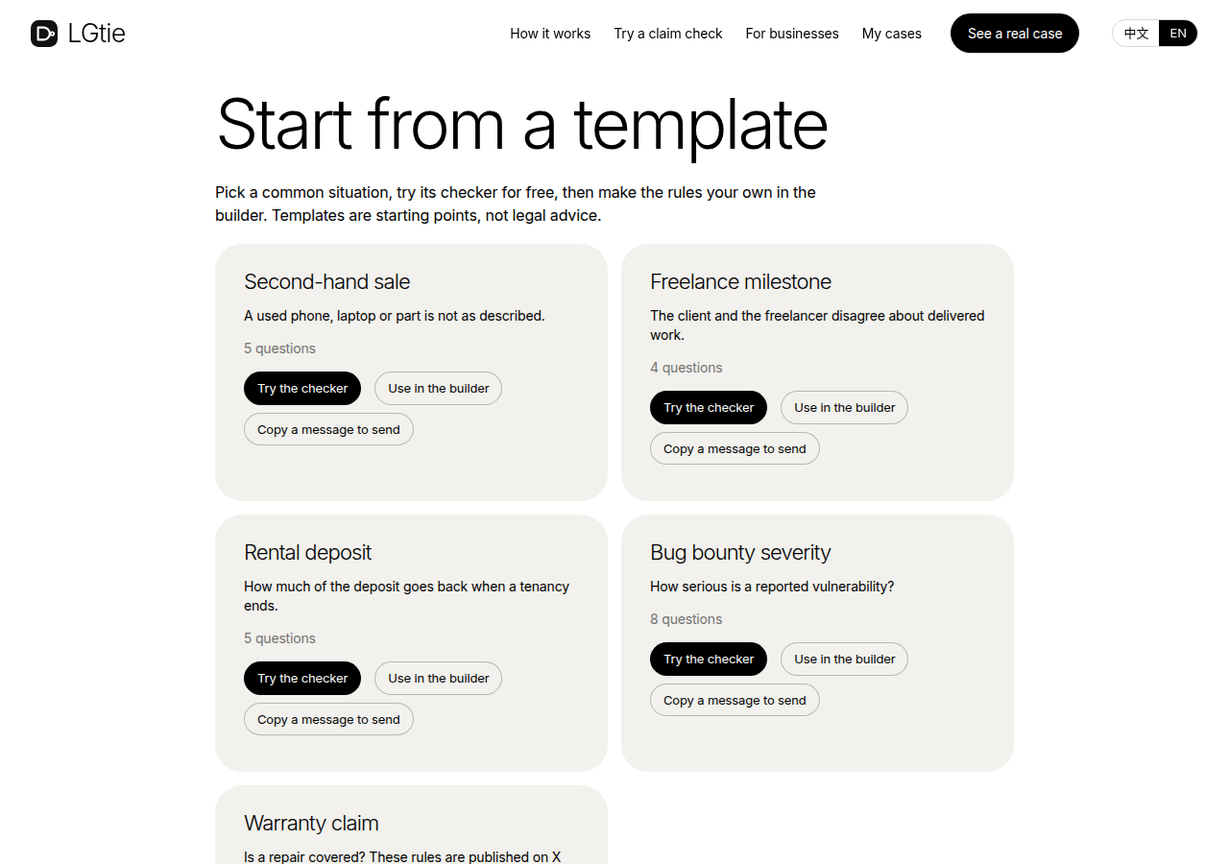
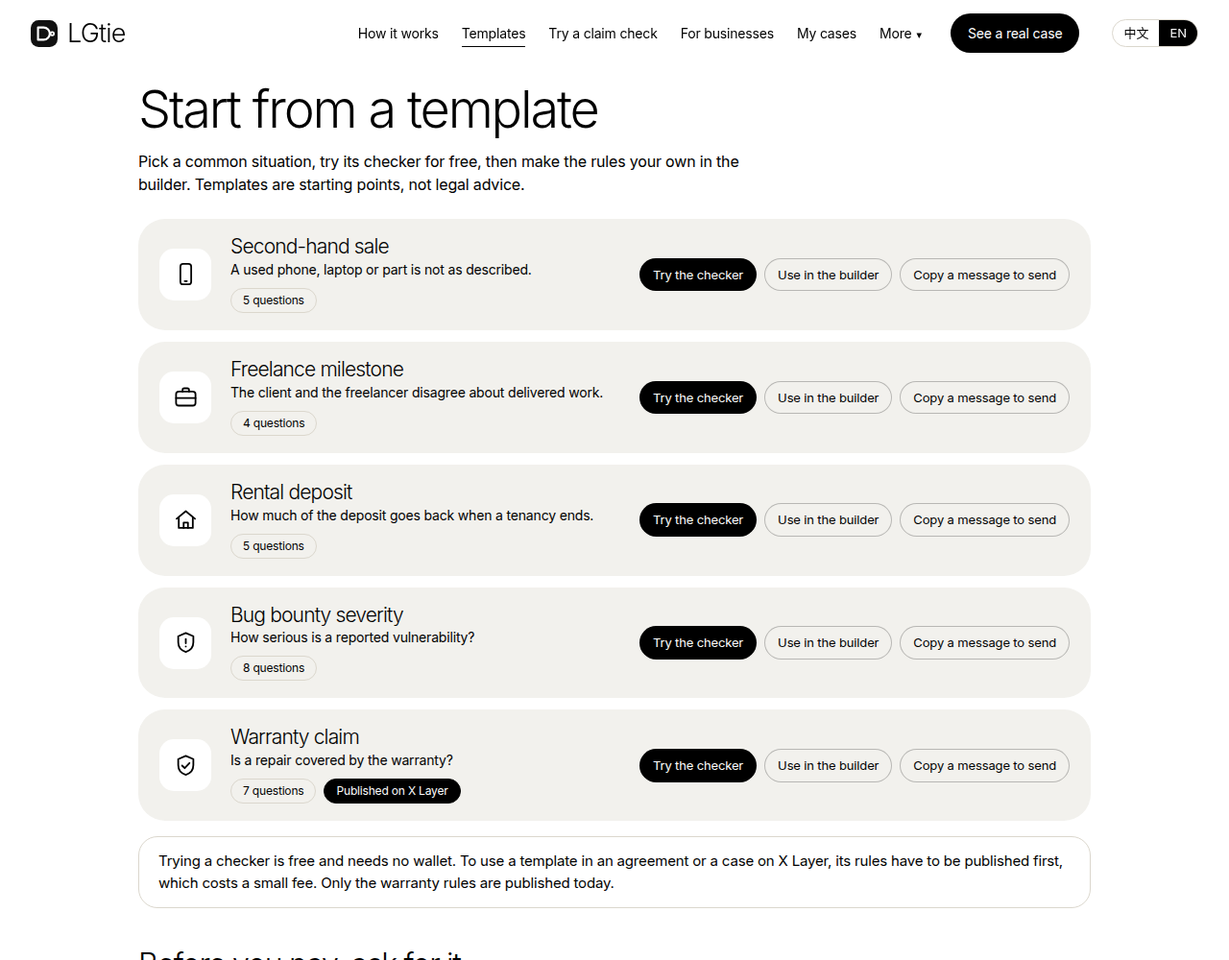
Redesign the templates page
The cards had uneven heights, an orphaned fifth card, three buttons wrapping
onto two rows, a wall of text, and a jumbled clause form.

- Templates are now a clean list of rows: icon, title, one-line description,
  tags (question count, "Published on X Layer") and all three actions on one
  line. The page is wider so they fit.
- "Before you pay, ask for it" is two short panels (buying or hiring, selling
  or providing).
- The contract clause tool has labelled controls on the left (sticky) and a
  paper-style preview on the right that grows to fit its text, with the copy
  button above it and the fine print as three bullets. Shorter dropdown labels
  so nothing is cut off. The same card is used on agreement pages.
- Phone: rows stack with their actions underneath; controls stack above the
  clause; no sideways scroll.
- Chinese strings for the new text; README screenshot retaken.
- Tests: 9 layout checks (aligned rows, one line of actions, no clause
  scrollbar, labels not cut off, phone layout).

diff --git a/dist/index.html b/dist/index.html
@@ -413,6 +413,22 @@ main.hub{max-width:1100px}
 .fcols{display:grid;grid-template-columns:repeat(auto-fit,minmax(170px,1fr));gap:22px 28px;margin:0 0 26px}.fcols h5{margin:0 0 8px;font:500 13px/1.2 var(--sans);color:#000;letter-spacing:0}
 .fcols a{display:block;padding:4px 0;text-decoration:none;color:var(--ink)}.fcols a:hover{text-decoration:underline}
 @media(max-width:700px){.more .menu{left:0;right:auto}}
+
+/* the templates page */
+main.tplpage{max-width:1040px}.tplpage h1{font-size:clamp(34px,5vw,54px);margin:.1em 0 .25em}.tplpage .sech{font-size:clamp(24px,3vw,32px);margin:42px 0 14px}
+.tpllist{display:grid;gap:12px;margin:24px 0 16px}
+.tpl{display:grid;grid-template-columns:54px minmax(0,1fr) auto;gap:20px;align-items:center;padding:18px 22px;margin:0}
+.tpl .ico{width:54px;height:54px;border-radius:15px;background:#fff;display:grid;place-items:center}.tpl .ico svg{width:27px;height:27px;fill:none;stroke:var(--ink);stroke-width:1.6;stroke-linecap:round;stroke-linejoin:round}
+.tpl h3{font-size:21px;margin:0 0 3px}.tpl p{margin:0}.tpl .meta{display:flex;gap:8px;flex-wrap:wrap;margin-top:9px}.tpl .acts{display:flex;gap:8px;flex-wrap:nowrap}.tpl .acts .btn{white-space:nowrap}
+@media(max-width:900px){.tpl{grid-template-columns:48px minmax(0,1fr);gap:14px 16px;align-items:start}.tpl .ico{width:48px;height:48px}.tpl .acts{grid-column:1/-1;flex-wrap:wrap}}
+.duo{display:grid;grid-template-columns:1fr 1fr;gap:14px}.duo>div{background:#fff;border:1px solid var(--warm,#ddd);border-radius:18px;padding:20px 24px}.duo h4{font:500 17px/1.3 var(--sans);letter-spacing:0;margin:0 0 8px}.duo p{margin:0}
+@media(max-width:760px){.duo{grid-template-columns:1fr}}
+.clause{display:grid;gap:22px;margin-top:16px}.clause .ctl{display:grid;gap:14px;align-content:start}.clause label{display:grid;gap:6px;font-size:13px;color:var(--stone)}.clause select,.clause input[type=text]{width:100%;font-size:15px}
+.tplpage .clause.two .ctl{position:sticky;top:84px}
+.clause .two2{display:grid;grid-template-columns:1fr 1fr;gap:10px}.clause .doc{display:grid;gap:12px;min-width:0}.clause .dochead{display:flex;justify-content:space-between;align-items:center;gap:10px}.clause .dochead b{font:500 15px var(--sans);letter-spacing:0}
+.clause textarea.paper{width:100%;background:#fff;border:1px solid var(--warm,#ddd);border-radius:14px;padding:22px 24px;font:400 14.5px/1.7 var(--sans);letter-spacing:0;resize:none;overflow:hidden;min-height:180px;box-sizing:border-box}
+.clause .fine{margin:0;padding-left:18px;color:var(--stone);font-size:13px;line-height:1.6;display:grid;gap:4px}
+.tplpage .clause.two{grid-template-columns:280px minmax(0,1fr);align-items:start}@media(max-width:860px){.tplpage .clause.two{grid-template-columns:1fr}}
 /* language: Chinese needs system CJK fonts (the embedded Inter has Latin only) and looser tracking */
 html[lang^="zh"]{--serif:"InterEmbedded","Inter","PingFang SC","Hiragino Sans GB","Microsoft YaHei","Noto Sans CJK SC","Noto Sans SC","WenQuanYi Micro Hei",ui-sans-serif,system-ui,sans-serif;--sans:var(--serif)}
 html[lang^="zh"] body{letter-spacing:0;line-height:1.65;line-break:strict}
@@ -1360,7 +1376,18 @@ window.TB_ZH = {
  "For the neutral person": "中立人士的裁决期限",
  "For example: Amina Yusuf": "例如：张伟",
  "Copy the clause": "复制条款",
- "This does not limit anyone's right to go to court or to arbitration. The record it produces is evidence of what each side answered and what was decided; it is not a court judgment or an arbitral award. Answers, fingerprints of evidence and the reviewer's written reasons are public on the blockchain, so do not use LGtie for matters that must stay confidential.": "这不限制任何人提起诉讼或仲裁的权利。它产生的记录是各方回答了什么、裁定了什么的证据，不是法院判决，也不是仲裁裁决。答案、证据指纹和审核人的书面理由都公开在区块链上，所以请不要用 LGtie 处理必须保密的事项。"
+ "This does not limit anyone's right to go to court or to arbitration. The record it produces is evidence of what each side answered and what was decided; it is not a court judgment or an arbitral award. Answers, fingerprints of evidence and the reviewer's written reasons are public on the blockchain, so do not use LGtie for matters that must stay confidential.": "这不限制任何人提起诉讼或仲裁的权利。它产生的记录是各方回答了什么、裁定了什么的证据，不是法院判决，也不是仲裁裁决。答案、证据指纹和审核人的书面理由都公开在区块链上，所以请不要用 LGtie 处理必须保密的事项。",
+ "Published on X Layer": "已发布在 X Layer",
+ "Buying or hiring": "购买或雇人",
+ "Selling or providing": "出售或提供服务",
+ "The clause": "条款",
+ "Ask first: \"Will you accept an LGtie agreement?\" If they will not agree the refund rules before you pay, you have learned something. If they will, you both know what happens if it goes wrong.": "先提出：“你愿意接受 LGtie 协议吗？”如果对方不肯在你付款之前就退款规则达成一致，你就已经看出了问题。如果对方愿意，你们双方就都清楚出问题时会怎样处理。",
+ "Show the rules first. The receipt of a decided case shows which rules both sides agreed and who settled each question. It is useful supporting evidence if a payment company or a platform asks, but they decide what they accept.": "先把规则给对方看。已裁决案件的回执会显示双方约定了哪些规则、每个问题由谁裁定。如果支付公司或平台提出要求，它是有用的佐证材料，但是否采信由他们决定。",
+ "This does not limit anyone's right to go to court or to arbitration.": "这不限制任何人提起诉讼或仲裁的权利。",
+ "The record it produces is evidence of what each side answered and what was decided; it is not a court judgment or an arbitral award.": "它产生的记录是各方回答了什么、裁定了什么的证据，不是法院判决，也不是仲裁裁决。",
+ "Answers, fingerprints of evidence and the reviewer's written reasons are public on the blockchain, so do not use LGtie for matters that must stay confidential.": "答案、证据指纹和审核人的书面理由都公开在区块链上，所以请不要用 LGtie 处理必须保密的事项。",
+ "Binding (expert determination)": "有约束力（专家裁定）",
+ "Advisory only": "仅供参考"
 },
   patterns: [
   [/^Evidence: (.+)$/, "证据：{1}"],
@@ -1809,8 +1836,8 @@ rule: Q6=yes -> 中危 : 造成永久性损害，但没有资金损失。
 default: 低危 : 可以复现且在范围内，但没有资金损失，也没有永久性损害。
 `}},
     {key: "warranty",
-      en: {chip: "Warranty example", title: "Warranty claim", blurb: "Is a repair covered? These rules are published on X Layer.", text: null},
-      zh: {chip: "保修示例", title: "保修理赔", blurb: "维修是否在保修范围内？这套规则已发布在 X Layer 上。", text: `name: 保修理赔
+      en: {chip: "Warranty example", title: "Warranty claim", blurb: "Is a repair covered by the warranty?", text: null},
+      zh: {chip: "保修示例", title: "保修理赔", blurb: "维修是否在保修范围内？", text: `name: 保修理赔
 about: 在提交理赔之前，先查明维修是否在保修范围内。
 question: 产品是否已登记，或者你能否出示购买凭证？ | 登记号或收据
 question: 是否仍在保修期内？ | 购买日期
@@ -1889,43 +1916,65 @@ default: 予以保修 : 保修的所有条件均已满足。
     ? `在开始之前，我们能不能先约定好万一出问题怎么处理？这是我们双方都会回答的问题，以及决定结果的规则：${base()}#check/${key}\n如果将来有分歧，只有我们答案不一致的问题才会交给中立的第三方。你接受 LGtie 协议吗？`
     : `Before we go ahead, can we agree in advance what happens if something goes wrong? Here are the questions we would both answer, and the rules that decide the result: ${base()}#check/${key}\nIf we ever disagree, only the questions we answer differently go to a neutral person. Do you accept an LGtie agreement?`;
 
-  // The clause card, used on the templates page (everything editable) and on an agreement page (the agreement's own reviewer and time limits).
-  // o: {key, fixed (true on an agreement page), reviewer, answerDays, reviewDays, link}
+  // The clause card, used on the templates page (controls on the left, the clause on the right) and on an agreement page (the agreement's own
+  // reviewer and time limits, so only the effect can be chosen). o: {key, fixed, reviewer, answerDays, reviewDays, link}
   const sha = async t => "0x" + [...new Uint8Array(await crypto.subtle.digest("SHA-256", new TextEncoder().encode(t)))].map(x => x.toString(16).padStart(2, "0")).join("");
   const dayOpts = (n, list) => list.map(d => `<option value="${d}"${d === n ? " selected" : ""}>${d} days</option>`).join("");
   function clauseCard(el, o) {
     const fixed = !!o.fixed, uid = "cl" + Math.random().toString(36).slice(2, 7);
     el.innerHTML = `<h3>Put it in your contract</h3>
       <p class="small">The legal effect comes from your own written contract, not from LGtie. Paste a clause like this into it, so the contract itself says how a disagreement about the facts is settled. Have a lawyer in your jurisdiction review it: this is a template, not legal advice.</p>
-      <div class="row">${fixed ? "" : `<label>Rules <select id="${uid}k">${LIBRARY.map(t => `<option value="${t.key}"${t.key === o.key ? " selected" : ""}>${esc(info(t.key).title)}</option>`).join("")}</select></label>`}
-        <label>The outcome is <select id="${uid}e"><option value="binding">Binding on the parties (expert determination of facts)</option><option value="advisory">Advisory only (considered before going to court)</option></select></label></div>
-      ${fixed ? "" : `<div class="row"><label>Neutral person (name, optional) <input id="${uid}r" type="text" placeholder="For example: Amina Yusuf" autocomplete="off" style="width:min(320px,100%)"></label><label>To answer <select id="${uid}a">${dayOpts(o.answerDays || 7, [3, 7, 14, 30])}</select></label><label>For the neutral person <select id="${uid}d">${dayOpts(o.reviewDays || 7, [3, 7, 14, 30])}</select></label></div>`}
-      <textarea id="${uid}t" rows="14" readonly style="width:100%"></textarea>
-      <div class="row"><button class="btn small" id="${uid}c" type="button">Copy the clause</button></div>
-      <p class="small mute">This does not limit anyone's right to go to court or to arbitration. The record it produces is evidence of what each side answered and what was decided; it is not a court judgment or an arbitral award. Answers, fingerprints of evidence and the reviewer's written reasons are public on the blockchain, so do not use LGtie for matters that must stay confidential.</p>`;
+      <div class="clause${fixed ? "" : " two"}">
+        <div class="ctl">
+          ${fixed ? "" : `<label>Rules<select id="${uid}k">${LIBRARY.map(t => `<option value="${t.key}"${t.key === o.key ? " selected" : ""}>${esc(info(t.key).title)}</option>`).join("")}</select></label>`}
+          <label>The outcome is<select id="${uid}e"><option value="binding">Binding (expert determination)</option><option value="advisory">Advisory only</option></select></label>
+          ${fixed ? "" : `<label>Neutral person (name, optional)<input id="${uid}r" type="text" placeholder="For example: Amina Yusuf" autocomplete="off"></label>
+          <div class="two2"><label>To answer<select id="${uid}a">${dayOpts(o.answerDays || 7, [3, 7, 14, 30])}</select></label><label>For the neutral person<select id="${uid}d">${dayOpts(o.reviewDays || 7, [3, 7, 14, 30])}</select></label></div>`}
+        </div>
+        <div class="doc">
+          <div class="dochead"><b>The clause</b><button class="btn small" id="${uid}c" type="button">Copy the clause</button></div>
+          <textarea class="paper" id="${uid}t" rows="10" readonly aria-label="The clause"></textarea>
+          <ul class="fine"><li>This does not limit anyone's right to go to court or to arbitration.</li><li>The record it produces is evidence of what each side answered and what was decided; it is not a court judgment or an arbitral award.</li><li>Answers, fingerprints of evidence and the reviewer's written reasons are public on the blockchain, so do not use LGtie for matters that must stay confidential.</li></ul>
+        </div>
+      </div>`;
     const $ = s => el.querySelector("#" + uid + s);
+    const fit = () => { const t = $("t"); t.style.height = "auto"; t.style.height = (t.scrollHeight + 4) + "px"; };
     async function draw() {
       const key = fixed ? o.key : $("k").value, text = templateText(key, true), P = TB.parse(text).policy, pubd = published(key) ? root.TB_CONFIG.published[key] : null;
       const rvText = fixed ? o.reviewer : $("r").value;
       $("t").value = clause({key, effect: $("e").value, reviewer: rvText, answerDays: fixed ? o.answerDays : Number($("a").value), reviewDays: fixed ? o.reviewDays : Number($("d").value), link: o.link || (base() + "#check/" + key), hash: await sha(TB.canonical(P)), published: pubd});
+      fit();
     }
     el.querySelectorAll("select,input").forEach(x => { x.oninput = draw; x.onchange = draw; });
     $("c").onclick = async () => { try { await navigator.clipboard.writeText($("t").value); const b = $("c"), t = b.textContent; b.textContent = "Copied"; setTimeout(() => b.textContent = t, 1400); } catch { $("t").select(); } };
+    window.addEventListener("resize", () => { if (el.isConnected) fit(); });
     draw(); return {draw};
   }
 
+  // small line icons, one per template
+  const SHIELD = '<path d="M12 3l7 3v5.5c0 4.3-3 7.7-7 9-4-1.3-7-4.7-7-9V6l7-3z"/>';
+  const ICON = {
+    secondhand: '<rect x="7" y="2.5" width="10" height="19" rx="2.5"/><path d="M11 18.5h2"/>',
+    freelance: '<rect x="3" y="7" width="18" height="13" rx="2.5"/><path d="M9 7V5.5A1.5 1.5 0 0 1 10.5 4h3A1.5 1.5 0 0 1 15 5.5V7M3 13h18"/>',
+    rental: '<path d="M3.5 11 12 4l8.5 7"/><path d="M5.5 10v9.5h13V10"/><path d="M10 19.5v-5h4v5"/>',
+    bounty: SHIELD + '<path d="M12 8.5v4M12 15.4v.1"/>',
+    warranty: SHIELD + '<path d="M8.6 12l2.4 2.4 4.4-4.8"/>'
+  };
   function page() {
-    const cards = LIBRARY.map(t => {
-      const i = info(t.key), n = TB.parse(templateText(t.key, true)).policy.questions.length;
-      return `<div class="card"><h3>${esc(i.title)}</h3><p class="small">${esc(i.blurb)}</p><p class="small mute">${n} questions${published(t.key) ? " · published on X Layer" : ""}</p>
-        <div class="row"><a class="btn small" href="#check/${t.key}">Try the checker</a><a class="btn small ghost" href="#build/${t.key}">Use in the builder</a><button class="btn small ghost" data-msg="${t.key}" type="button">Copy a message to send</button></div></div>`;
+    main.classList.add("tplpage");
+    const rows = LIBRARY.map(t => {
+      const i = info(t.key), n = TB.parse(templateText(t.key, true)).policy.questions.length, pub = published(t.key);
+      return `<div class="card tpl"><div class="ico"><svg viewBox="0 0 24 24" aria-hidden="true">${ICON[t.key] || SHIELD}</svg></div>
+        <div class="txt"><h3>${esc(i.title)}</h3><p class="small">${esc(i.blurb)}</p><div class="meta"><span class="badge">${n} questions</span>${pub ? `<span class="badge ok">Published on X Layer</span>` : ""}</div></div>
+        <div class="acts"><a class="btn small" href="#check/${t.key}">Try the checker</a><a class="btn small ghost" href="#build/${t.key}">Use in the builder</a><button class="btn small ghost" data-msg="${t.key}" type="button">Copy a message to send</button></div></div>`;
     }).join("");
     main.innerHTML = `<h1>Start from a template</h1><p class="lede">Pick a common situation, try its checker for free, then make the rules your own in the builder. Templates are starting points, not legal advice.</p>
-      <div class="grid2">${cards}</div>
-      <div class="card"><h3>Before you pay, ask for it</h3><p class="small">Ask the other side: "Will you accept an LGtie agreement?" If they will not agree the refund rules before you pay, you have learned something. If they will, you both know what happens if it goes wrong.</p>
-        <p class="small">Selling? Show buyers the rules first. The receipt of a decided case shows which rules both sides agreed and who settled each question. It is useful supporting evidence if a payment company or a platform asks, but they decide what they accept.</p></div>
-      <div class="card" id="clausecard"></div>
-      <div class="note">Trying a checker is free and needs no wallet. To use a template in an agreement or a case on X Layer, its rules have to be published first, which costs a small fee. Only the warranty rules are published today.</div>`;
+      <div class="tpllist">${rows}</div>
+      <div class="note">Trying a checker is free and needs no wallet. To use a template in an agreement or a case on X Layer, its rules have to be published first, which costs a small fee. Only the warranty rules are published today.</div>
+      <h2 class="sech">Before you pay, ask for it</h2>
+      <div class="duo"><div><h4>Buying or hiring</h4><p class="small">Ask first: "Will you accept an LGtie agreement?" If they will not agree the refund rules before you pay, you have learned something. If they will, you both know what happens if it goes wrong.</p></div>
+        <div><h4>Selling or providing</h4><p class="small">Show the rules first. The receipt of a decided case shows which rules both sides agreed and who settled each question. It is useful supporting evidence if a payment company or a platform asks, but they decide what they accept.</p></div></div>
+      <div class="card" id="clausecard"></div>`;
     clauseCard(main.querySelector("#clausecard"), {key: "freelance"});
     main.querySelectorAll("[data-msg]").forEach(b => b.onclick = async () => { const t = message(b.dataset.msg); try { await navigator.clipboard.writeText(t); const o = b.textContent; b.textContent = "Copied"; setTimeout(() => b.textContent = o, 1400); } catch { prompt("Copy:", t); } });
   }
@@ -4042,7 +4091,7 @@ MY POLICY:
     window.TB_HERO.stop();
     const h = location.hash.replace(/^#/, ""), [view, key, ...rest] = h.split("/");
     document.body.classList.toggle("embed", view === "embed");
-    main.classList.toggle("home", !view); main.classList.toggle("builder", view === "build"); main.classList.toggle("about", view === "about"); main.classList.toggle("hub", view === "for-business"); if (view !== "build") main.removeAttribute("data-step"); main.classList.remove("enter");
+    main.classList.toggle("home", !view); main.classList.toggle("builder", view === "build"); main.classList.toggle("about", view === "about"); main.classList.toggle("hub", view === "for-business"); main.classList.toggle("tplpage", view === "templates"); if (view !== "build") main.removeAttribute("data-step"); main.classList.remove("enter");
     if (view !== "embed" && view && !reduce) { void main.offsetWidth; main.classList.add("enter"); setTimeout(() => main.classList.remove("enter"), 700); }
     armReveal(view === "embed");
     document.querySelectorAll("#nav a").forEach(a => a.classList.toggle("on", a.dataset.k === view)); closeMore(); const mo = document.querySelector(".more summary"); if (mo) mo.classList.toggle("on", !!document.querySelector(".more .menu a.on"));

diff --git a/site/templates.js b/site/templates.js
@@ -137,8 +137,8 @@ rule: Q6=yes -> 中危 : 造成永久性损害，但没有资金损失。
 default: 低危 : 可以复现且在范围内，但没有资金损失，也没有永久性损害。
 `}},
     {key: "warranty",
-      en: {chip: "Warranty example", title: "Warranty claim", blurb: "Is a repair covered? These rules are published on X Layer.", text: null},
-      zh: {chip: "保修示例", title: "保修理赔", blurb: "维修是否在保修范围内？这套规则已发布在 X Layer 上。", text: `name: 保修理赔
+      en: {chip: "Warranty example", title: "Warranty claim", blurb: "Is a repair covered by the warranty?", text: null},
+      zh: {chip: "保修示例", title: "保修理赔", blurb: "维修是否在保修范围内？", text: `name: 保修理赔
 about: 在提交理赔之前，先查明维修是否在保修范围内。
 question: 产品是否已登记，或者你能否出示购买凭证？ | 登记号或收据
 question: 是否仍在保修期内？ | 购买日期
@@ -217,43 +217,65 @@ default: 予以保修 : 保修的所有条件均已满足。
     ? `在开始之前，我们能不能先约定好万一出问题怎么处理？这是我们双方都会回答的问题，以及决定结果的规则：${base()}#check/${key}\n如果将来有分歧，只有我们答案不一致的问题才会交给中立的第三方。你接受 LGtie 协议吗？`
     : `Before we go ahead, can we agree in advance what happens if something goes wrong? Here are the questions we would both answer, and the rules that decide the result: ${base()}#check/${key}\nIf we ever disagree, only the questions we answer differently go to a neutral person. Do you accept an LGtie agreement?`;
 
-  // The clause card, used on the templates page (everything editable) and on an agreement page (the agreement's own reviewer and time limits).
-  // o: {key, fixed (true on an agreement page), reviewer, answerDays, reviewDays, link}
+  // The clause card, used on the templates page (controls on the left, the clause on the right) and on an agreement page (the agreement's own
+  // reviewer and time limits, so only the effect can be chosen). o: {key, fixed, reviewer, answerDays, reviewDays, link}
   const sha = async t => "0x" + [...new Uint8Array(await crypto.subtle.digest("SHA-256", new TextEncoder().encode(t)))].map(x => x.toString(16).padStart(2, "0")).join("");
   const dayOpts = (n, list) => list.map(d => `<option value="${d}"${d === n ? " selected" : ""}>${d} days</option>`).join("");
   function clauseCard(el, o) {
     const fixed = !!o.fixed, uid = "cl" + Math.random().toString(36).slice(2, 7);
     el.innerHTML = `<h3>Put it in your contract</h3>
       <p class="small">The legal effect comes from your own written contract, not from LGtie. Paste a clause like this into it, so the contract itself says how a disagreement about the facts is settled. Have a lawyer in your jurisdiction review it: this is a template, not legal advice.</p>
-      <div class="row">${fixed ? "" : `<label>Rules <select id="${uid}k">${LIBRARY.map(t => `<option value="${t.key}"${t.key === o.key ? " selected" : ""}>${esc(info(t.key).title)}</option>`).join("")}</select></label>`}
-        <label>The outcome is <select id="${uid}e"><option value="binding">Binding on the parties (expert determination of facts)</option><option value="advisory">Advisory only (considered before going to court)</option></select></label></div>
-      ${fixed ? "" : `<div class="row"><label>Neutral person (name, optional) <input id="${uid}r" type="text" placeholder="For example: Amina Yusuf" autocomplete="off" style="width:min(320px,100%)"></label><label>To answer <select id="${uid}a">${dayOpts(o.answerDays || 7, [3, 7, 14, 30])}</select></label><label>For the neutral person <select id="${uid}d">${dayOpts(o.reviewDays || 7, [3, 7, 14, 30])}</select></label></div>`}
-      <textarea id="${uid}t" rows="14" readonly style="width:100%"></textarea>
-      <div class="row"><button class="btn small" id="${uid}c" type="button">Copy the clause</button></div>
-      <p class="small mute">This does not limit anyone's right to go to court or to arbitration. The record it produces is evidence of what each side answered and what was decided; it is not a court judgment or an arbitral award. Answers, fingerprints of evidence and the reviewer's written reasons are public on the blockchain, so do not use LGtie for matters that must stay confidential.</p>`;
+      <div class="clause${fixed ? "" : " two"}">
+        <div class="ctl">
+          ${fixed ? "" : `<label>Rules<select id="${uid}k">${LIBRARY.map(t => `<option value="${t.key}"${t.key === o.key ? " selected" : ""}>${esc(info(t.key).title)}</option>`).join("")}</select></label>`}
+          <label>The outcome is<select id="${uid}e"><option value="binding">Binding (expert determination)</option><option value="advisory">Advisory only</option></select></label>
+          ${fixed ? "" : `<label>Neutral person (name, optional)<input id="${uid}r" type="text" placeholder="For example: Amina Yusuf" autocomplete="off"></label>
+          <div class="two2"><label>To answer<select id="${uid}a">${dayOpts(o.answerDays || 7, [3, 7, 14, 30])}</select></label><label>For the neutral person<select id="${uid}d">${dayOpts(o.reviewDays || 7, [3, 7, 14, 30])}</select></label></div>`}
+        </div>
+        <div class="doc">
+          <div class="dochead"><b>The clause</b><button class="btn small" id="${uid}c" type="button">Copy the clause</button></div>
+          <textarea class="paper" id="${uid}t" rows="10" readonly aria-label="The clause"></textarea>
+          <ul class="fine"><li>This does not limit anyone's right to go to court or to arbitration.</li><li>The record it produces is evidence of what each side answered and what was decided; it is not a court judgment or an arbitral award.</li><li>Answers, fingerprints of evidence and the reviewer's written reasons are public on the blockchain, so do not use LGtie for matters that must stay confidential.</li></ul>
+        </div>
+      </div>`;
     const $ = s => el.querySelector("#" + uid + s);
+    const fit = () => { const t = $("t"); t.style.height = "auto"; t.style.height = (t.scrollHeight + 4) + "px"; };
     async function draw() {
       const key = fixed ? o.key : $("k").value, text = templateText(key, true), P = TB.parse(text).policy, pubd = published(key) ? root.TB_CONFIG.published[key] : null;
       const rvText = fixed ? o.reviewer : $("r").value;
       $("t").value = clause({key, effect: $("e").value, reviewer: rvText, answerDays: fixed ? o.answerDays : Number($("a").value), reviewDays: fixed ? o.reviewDays : Number($("d").value), link: o.link || (base() + "#check/" + key), hash: await sha(TB.canonical(P)), published: pubd});
+      fit();
     }
     el.querySelectorAll("select,input").forEach(x => { x.oninput = draw; x.onchange = draw; });
     $("c").onclick = async () => { try { await navigator.clipboard.writeText($("t").value); const b = $("c"), t = b.textContent; b.textContent = "Copied"; setTimeout(() => b.textContent = t, 1400); } catch { $("t").select(); } };
+    window.addEventListener("resize", () => { if (el.isConnected) fit(); });
     draw(); return {draw};
   }
 
+  // small line icons, one per template
+  const SHIELD = '<path d="M12 3l7 3v5.5c0 4.3-3 7.7-7 9-4-1.3-7-4.7-7-9V6l7-3z"/>';
+  const ICON = {
+    secondhand: '<rect x="7" y="2.5" width="10" height="19" rx="2.5"/><path d="M11 18.5h2"/>',
+    freelance: '<rect x="3" y="7" width="18" height="13" rx="2.5"/><path d="M9 7V5.5A1.5 1.5 0 0 1 10.5 4h3A1.5 1.5 0 0 1 15 5.5V7M3 13h18"/>',
+    rental: '<path d="M3.5 11 12 4l8.5 7"/><path d="M5.5 10v9.5h13V10"/><path d="M10 19.5v-5h4v5"/>',
+    bounty: SHIELD + '<path d="M12 8.5v4M12 15.4v.1"/>',
+    warranty: SHIELD + '<path d="M8.6 12l2.4 2.4 4.4-4.8"/>'
+  };
   function page() {
-    const cards = LIBRARY.map(t => {
-      const i = info(t.key), n = TB.parse(templateText(t.key, true)).policy.questions.length;
-      return `<div class="card"><h3>${esc(i.title)}</h3><p class="small">${esc(i.blurb)}</p><p class="small mute">${n} questions${published(t.key) ? " · published on X Layer" : ""}</p>
-        <div class="row"><a class="btn small" href="#check/${t.key}">Try the checker</a><a class="btn small ghost" href="#build/${t.key}">Use in the builder</a><button class="btn small ghost" data-msg="${t.key}" type="button">Copy a message to send</button></div></div>`;
+    main.classList.add("tplpage");
+    const rows = LIBRARY.map(t => {
+      const i = info(t.key), n = TB.parse(templateText(t.key, true)).policy.questions.length, pub = published(t.key);
+      return `<div class="card tpl"><div class="ico"><svg viewBox="0 0 24 24" aria-hidden="true">${ICON[t.key] || SHIELD}</svg></div>
+        <div class="txt"><h3>${esc(i.title)}</h3><p class="small">${esc(i.blurb)}</p><div class="meta"><span class="badge">${n} questions</span>${pub ? `<span class="badge ok">Published on X Layer</span>` : ""}</div></div>
+        <div class="acts"><a class="btn small" href="#check/${t.key}">Try the checker</a><a class="btn small ghost" href="#build/${t.key}">Use in the builder</a><button class="btn small ghost" data-msg="${t.key}" type="button">Copy a message to send</button></div></div>`;
     }).join("");
     main.innerHTML = `<h1>Start from a template</h1><p class="lede">Pick a common situation, try its checker for free, then make the rules your own in the builder. Templates are starting points, not legal advice.</p>
-      <div class="grid2">${cards}</div>
-      <div class="card"><h3>Before you pay, ask for it</h3><p class="small">Ask the other side: "Will you accept an LGtie agreement?" If they will not agree the refund rules before you pay, you have learned something. If they will, you both know what happens if it goes wrong.</p>
-        <p class="small">Selling? Show buyers the rules first. The receipt of a decided case shows which rules both sides agreed and who settled each question. It is useful supporting evidence if a payment company or a platform asks, but they decide what they accept.</p></div>
-      <div class="card" id="clausecard"></div>
-      <div class="note">Trying a checker is free and needs no wallet. To use a template in an agreement or a case on X Layer, its rules have to be published first, which costs a small fee. Only the warranty rules are published today.</div>`;
+      <div class="tpllist">${rows}</div>
+      <div class="note">Trying a checker is free and needs no wallet. To use a template in an agreement or a case on X Layer, its rules have to be published first, which costs a small fee. Only the warranty rules are published today.</div>
+      <h2 class="sech">Before you pay, ask for it</h2>
+      <div class="duo"><div><h4>Buying or hiring</h4><p class="small">Ask first: "Will you accept an LGtie agreement?" If they will not agree the refund rules before you pay, you have learned something. If they will, you both know what happens if it goes wrong.</p></div>
+        <div><h4>Selling or providing</h4><p class="small">Show the rules first. The receipt of a decided case shows which rules both sides agreed and who settled each question. It is useful supporting evidence if a payment company or a platform asks, but they decide what they accept.</p></div></div>
+      <div class="card" id="clausecard"></div>`;
     clauseCard(main.querySelector("#clausecard"), {key: "freelance"});
     main.querySelectorAll("[data-msg]").forEach(b => b.onclick = async () => { const t = message(b.dataset.msg); try { await navigator.clipboard.writeText(t); const o = b.textContent; b.textContent = "Copied"; setTimeout(() => b.textContent = o, 1400); } catch { prompt("Copy:", t); } });
   }

diff --git a/site/zh.js b/site/zh.js
@@ -926,7 +926,18 @@ window.TB_ZH = {
  "For the neutral person": "中立人士的裁决期限",
  "For example: Amina Yusuf": "例如：张伟",
  "Copy the clause": "复制条款",
- "This does not limit anyone's right to go to court or to arbitration. The record it produces is evidence of what each side answered and what was decided; it is not a court judgment or an arbitral award. Answers, fingerprints of evidence and the reviewer's written reasons are public on the blockchain, so do not use LGtie for matters that must stay confidential.": "这不限制任何人提起诉讼或仲裁的权利。它产生的记录是各方回答了什么、裁定了什么的证据，不是法院判决，也不是仲裁裁决。答案、证据指纹和审核人的书面理由都公开在区块链上，所以请不要用 LGtie 处理必须保密的事项。"
+ "This does not limit anyone's right to go to court or to arbitration. The record it produces is evidence of what each side answered and what was decided; it is not a court judgment or an arbitral award. Answers, fingerprints of evidence and the reviewer's written reasons are public on the blockchain, so do not use LGtie for matters that must stay confidential.": "这不限制任何人提起诉讼或仲裁的权利。它产生的记录是各方回答了什么、裁定了什么的证据，不是法院判决，也不是仲裁裁决。答案、证据指纹和审核人的书面理由都公开在区块链上，所以请不要用 LGtie 处理必须保密的事项。",
+ "Published on X Layer": "已发布在 X Layer",
+ "Buying or hiring": "购买或雇人",
+ "Selling or providing": "出售或提供服务",
+ "The clause": "条款",
+ "Ask first: \"Will you accept an LGtie agreement?\" If they will not agree the refund rules before you pay, you have learned something. If they will, you both know what happens if it goes wrong.": "先提出：“你愿意接受 LGtie 协议吗？”如果对方不肯在你付款之前就退款规则达成一致，你就已经看出了问题。如果对方愿意，你们双方就都清楚出问题时会怎样处理。",
+ "Show the rules first. The receipt of a decided case shows which rules both sides agreed and who settled each question. It is useful supporting evidence if a payment company or a platform asks, but they decide what they accept.": "先把规则给对方看。已裁决案件的回执会显示双方约定了哪些规则、每个问题由谁裁定。如果支付公司或平台提出要求，它是有用的佐证材料，但是否采信由他们决定。",
+ "This does not limit anyone's right to go to court or to arbitration.": "这不限制任何人提起诉讼或仲裁的权利。",
+ "The record it produces is evidence of what each side answered and what was decided; it is not a court judgment or an arbitral award.": "它产生的记录是各方回答了什么、裁定了什么的证据，不是法院判决，也不是仲裁裁决。",
+ "Answers, fingerprints of evidence and the reviewer's written reasons are public on the blockchain, so do not use LGtie for matters that must stay confidential.": "答案、证据指纹和审核人的书面理由都公开在区块链上，所以请不要用 LGtie 处理必须保密的事项。",
+ "Binding (expert determination)": "有约束力（专家裁定）",
+ "Advisory only": "仅供参考"
 },
   patterns: [
   [/^Evidence: (.+)$/, "证据：{1}"],

diff --git a/site/index.html b/site/index.html
@@ -413,6 +413,22 @@ main.hub{max-width:1100px}
 .fcols{display:grid;grid-template-columns:repeat(auto-fit,minmax(170px,1fr));gap:22px 28px;margin:0 0 26px}.fcols h5{margin:0 0 8px;font:500 13px/1.2 var(--sans);color:#000;letter-spacing:0}
 .fcols a{display:block;padding:4px 0;text-decoration:none;color:var(--ink)}.fcols a:hover{text-decoration:underline}
 @media(max-width:700px){.more .menu{left:0;right:auto}}
+
+/* the templates page */
+main.tplpage{max-width:1040px}.tplpage h1{font-size:clamp(34px,5vw,54px);margin:.1em 0 .25em}.tplpage .sech{font-size:clamp(24px,3vw,32px);margin:42px 0 14px}
+.tpllist{display:grid;gap:12px;margin:24px 0 16px}
+.tpl{display:grid;grid-template-columns:54px minmax(0,1fr) auto;gap:20px;align-items:center;padding:18px 22px;margin:0}
+.tpl .ico{width:54px;height:54px;border-radius:15px;background:#fff;display:grid;place-items:center}.tpl .ico svg{width:27px;height:27px;fill:none;stroke:var(--ink);stroke-width:1.6;stroke-linecap:round;stroke-linejoin:round}
+.tpl h3{font-size:21px;margin:0 0 3px}.tpl p{margin:0}.tpl .meta{display:flex;gap:8px;flex-wrap:wrap;margin-top:9px}.tpl .acts{display:flex;gap:8px;flex-wrap:nowrap}.tpl .acts .btn{white-space:nowrap}
+@media(max-width:900px){.tpl{grid-template-columns:48px minmax(0,1fr);gap:14px 16px;align-items:start}.tpl .ico{width:48px;height:48px}.tpl .acts{grid-column:1/-1;flex-wrap:wrap}}
+.duo{display:grid;grid-template-columns:1fr 1fr;gap:14px}.duo>div{background:#fff;border:1px solid var(--warm,#ddd);border-radius:18px;padding:20px 24px}.duo h4{font:500 17px/1.3 var(--sans);letter-spacing:0;margin:0 0 8px}.duo p{margin:0}
+@media(max-width:760px){.duo{grid-template-columns:1fr}}
+.clause{display:grid;gap:22px;margin-top:16px}.clause .ctl{display:grid;gap:14px;align-content:start}.clause label{display:grid;gap:6px;font-size:13px;color:var(--stone)}.clause select,.clause input[type=text]{width:100%;font-size:15px}
+.tplpage .clause.two .ctl{position:sticky;top:84px}
+.clause .two2{display:grid;grid-template-columns:1fr 1fr;gap:10px}.clause .doc{display:grid;gap:12px;min-width:0}.clause .dochead{display:flex;justify-content:space-between;align-items:center;gap:10px}.clause .dochead b{font:500 15px var(--sans);letter-spacing:0}
+.clause textarea.paper{width:100%;background:#fff;border:1px solid var(--warm,#ddd);border-radius:14px;padding:22px 24px;font:400 14.5px/1.7 var(--sans);letter-spacing:0;resize:none;overflow:hidden;min-height:180px;box-sizing:border-box}
+.clause .fine{margin:0;padding-left:18px;color:var(--stone);font-size:13px;line-height:1.6;display:grid;gap:4px}
+.tplpage .clause.two{grid-template-columns:280px minmax(0,1fr);align-items:start}@media(max-width:860px){.tplpage .clause.two{grid-template-columns:1fr}}
 /* language: Chinese needs system CJK fonts (the embedded Inter has Latin only) and looser tracking */
 html[lang^="zh"]{--serif:"InterEmbedded","Inter","PingFang SC","Hiragino Sans GB","Microsoft YaHei","Noto Sans CJK SC","Noto Sans SC","WenQuanYi Micro Hei",ui-sans-serif,system-ui,sans-serif;--sans:var(--serif)}
 html[lang^="zh"] body{letter-spacing:0;line-height:1.65;line-break:strict}

diff --git a/site/app.js b/site/app.js
@@ -299,7 +299,7 @@
     window.TB_HERO.stop();
     const h = location.hash.replace(/^#/, ""), [view, key, ...rest] = h.split("/");
     document.body.classList.toggle("embed", view === "embed");
-    main.classList.toggle("home", !view); main.classList.toggle("builder", view === "build"); main.classList.toggle("about", view === "about"); main.classList.toggle("hub", view === "for-business"); if (view !== "build") main.removeAttribute("data-step"); main.classList.remove("enter");
+    main.classList.toggle("home", !view); main.classList.toggle("builder", view === "build"); main.classList.toggle("about", view === "about"); main.classList.toggle("hub", view === "for-business"); main.classList.toggle("tplpage", view === "templates"); if (view !== "build") main.removeAttribute("data-step"); main.classList.remove("enter");
     if (view !== "embed" && view && !reduce) { void main.offsetWidth; main.classList.add("enter"); setTimeout(() => main.classList.remove("enter"), 700); }
     armReveal(view === "embed");
     document.querySelectorAll("#nav a").forEach(a => a.classList.toggle("on", a.dataset.k === view)); closeMore(); const mo = document.querySelector(".more summary"); if (mo) mo.classList.toggle("on", !!document.querySelector(".more .menu a.on"));
